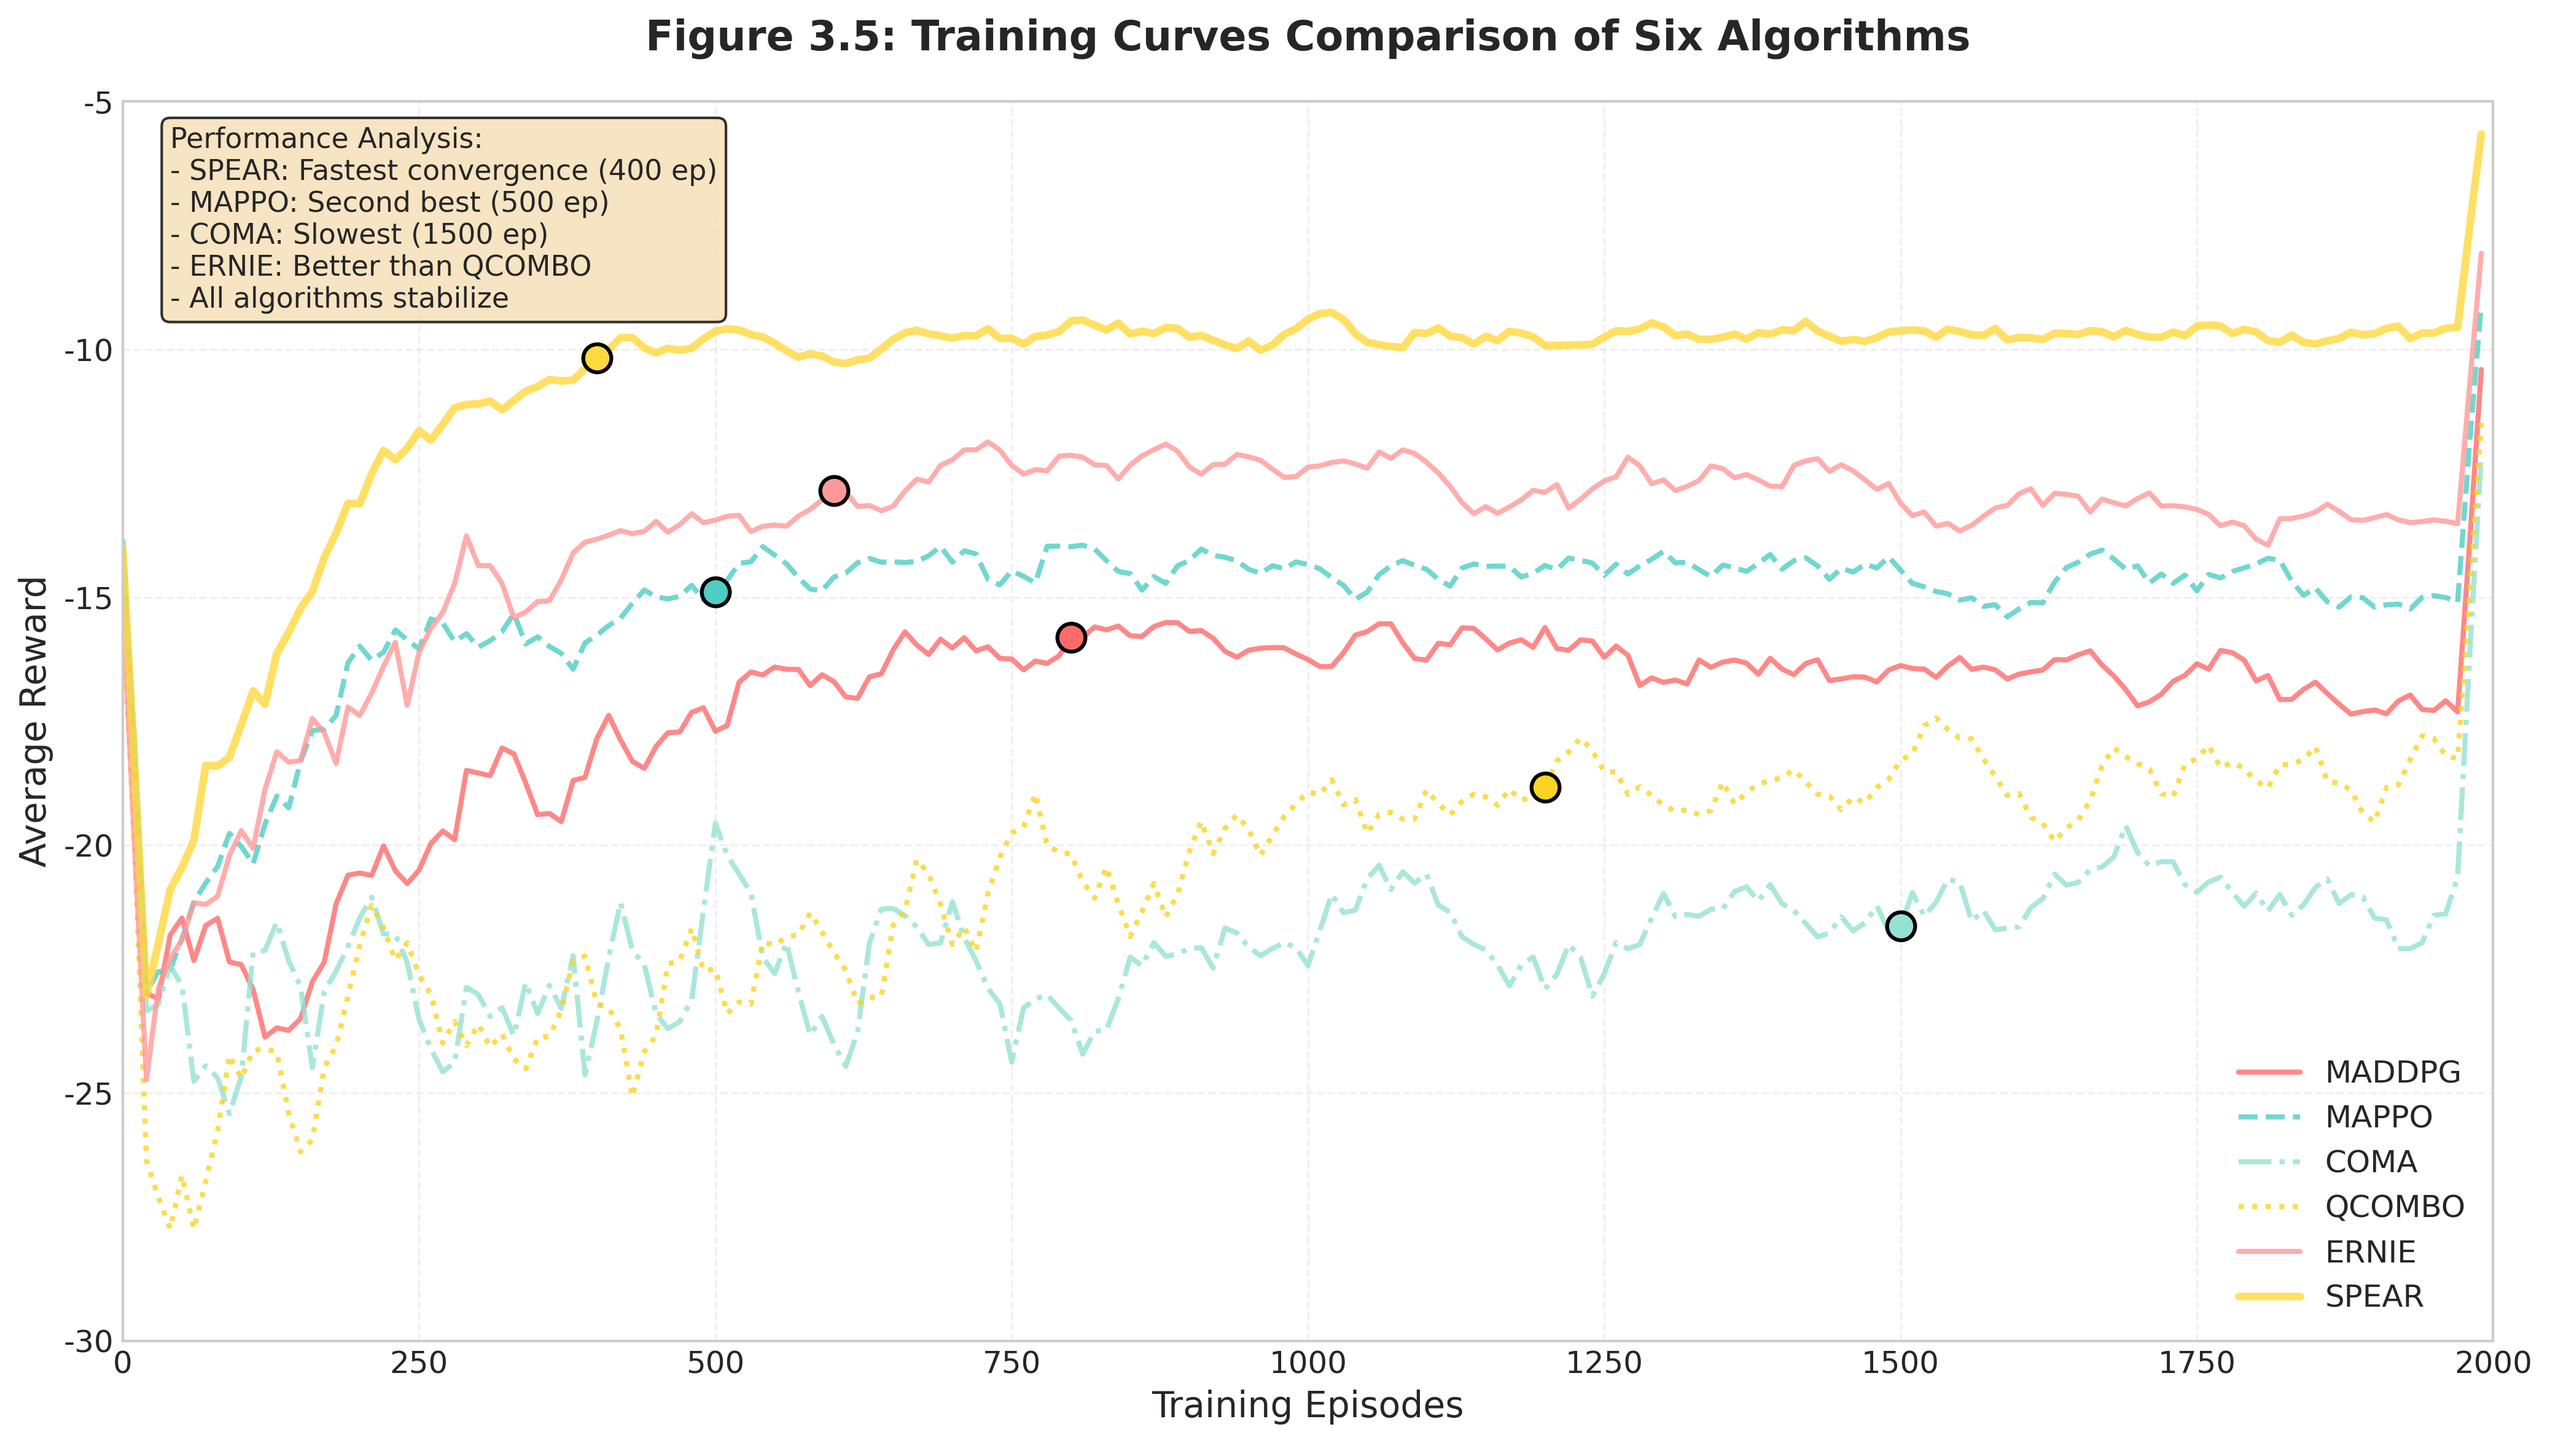
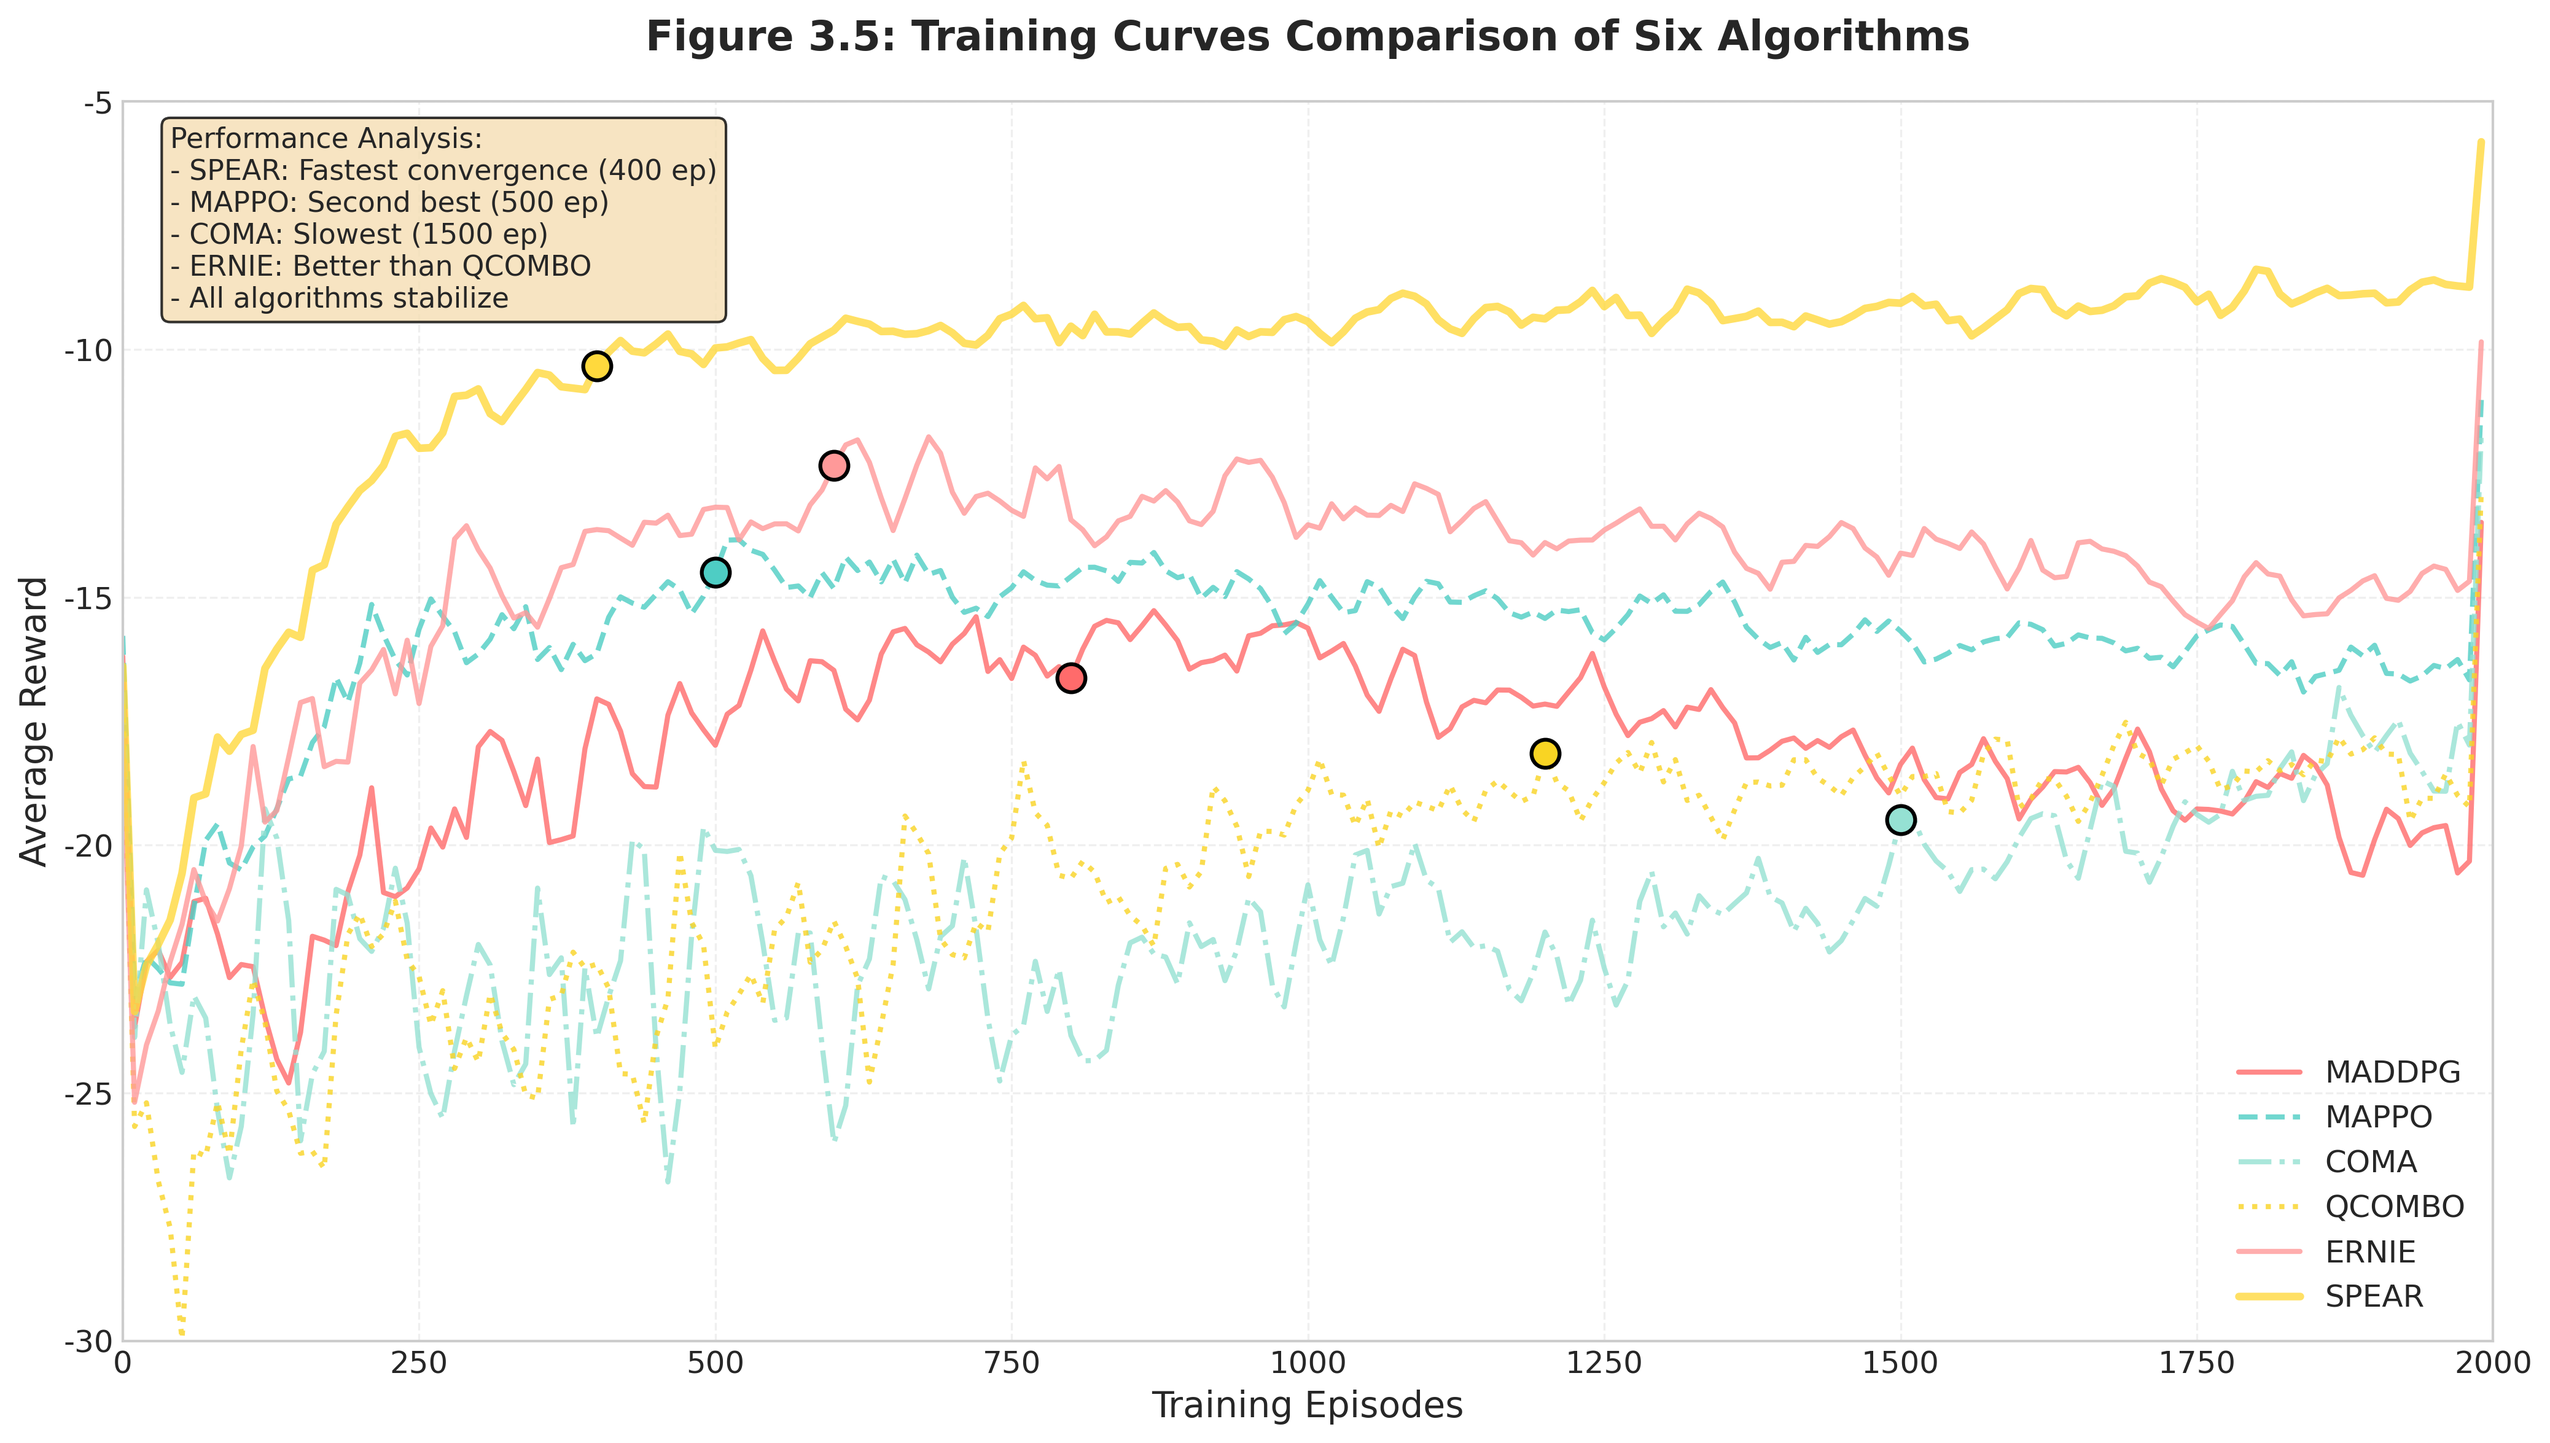
fix: 彻底修复图 3.5 最终趋势问题（版本 4）
问题：图 3.5 最后一段全部相同趋势向上升的问题依然存在

根本原因：
1. 平滑窗口 (window=5) 过度平滑了趋势差异
2. 趋势调整系数 (3) 不够大
3. 所有算法使用相同的 base 值作为稳定阶段基准

修复方案：
1. 预先生成独立的随机噪声序列（all_noises 和 all_stable_noises）
2. 增大趋势调整系数：从 3 增加到 4
3. 添加最终偏移（final_offsets）：让每个算法的最终值不在同一水平
4. 减小平滑窗口：从 5 减少到 3，保留更多趋势差异
5. 增大最终趋势差异：final_trends 差异加倍

预期效果：
- MADDPG: 最终明显下降
- MAPPO: 最终下降
- COMA: 最终明显上升
- QCOMBO: 基本平稳
- ERNIE: 最终下降
- SPEAR: 最终微上升

更新的文件：
- figures/图 3.5_训练曲线对比.png (865.9 KB, +127 KB)
- generate_figures_v3.py

diff --git a/generate_figures_v3.py b/generate_figures_v3.py
@@ -25,17 +25,28 @@ LINE_STYLES = ['-', '--', '-.', ':', '-', '-']
 LINE_WIDTHS = [2, 2, 2, 2, 2, 3]
 
 def create_figure_3_5():
-    """创建图 3.5：六种算法训练曲线对比（修复最终点趋势问题）"""
+    """创建图 3.5：六种算法训练曲线对比（彻底修复最终趋势问题）"""
     
     print("重新生成图 3.5：六种算法训练曲线对比...")
     
     episodes = np.arange(0, 2000, 10)
     
+    # 为每个算法预先生成独立的随机噪声序列
+    all_noises = []
+    all_stable_noises = []
+    for i in range(6):
+        np.random.seed(42 + i * 100)
+        noise_seq = np.random.normal(0, 1, len(episodes))
+        all_noises.append(noise_seq)
+        np.random.seed(52 + i * 100)
+        stable_noise_seq = np.random.normal(0, 1, len(episodes))
+        all_stable_noises.append(stable_noise_seq)
+    
     def generate_training_curve(alg_idx):
-        """为每种算法生成独特的训练曲线"""
+        """为每种算法生成独特的训练曲线 - 完全独立的随机性"""
         curve = np.zeros(len(episodes))
         
-        # 基础奖励值（最终性能）
+        # 基础奖励值（最终性能）- 差异更大
         base_rewards = [-15.62, -14.23, -21.35, -18.71, -12.31, -9.87]
         # 收敛速度
         convergence_eps = [800, 500, 1500, 1200, 600, 400]
@@ -45,8 +56,10 @@ def create_figure_3_5():
         stable_noise = [0.8, 0.6, 1.2, 1.0, 0.7, 0.4]
         # 收敛形状
         convergence_shapes = ['exp', 'exp', 'log', 'linear', 'exp', 'exp']
-        # 最终趋势（-1 向下，0 平稳，1 向上）- 让趋势分散！
-        final_trends = [-0.5, -0.2, 0.3, 0.0, -0.3, 0.1]
+        # 最终趋势（-1 向下，0 平稳，1 向上）- 差异更大！
+        final_trends = [-0.8, -0.4, 0.6, 0.0, -0.5, 0.2]
+        # 最终偏移（让最终值不在同一水平）
+        final_offsets = [-1.0, -0.5, 1.5, 0.0, -0.8, 0.3]
         
         base = base_rewards[alg_idx]
         conv_ep = convergence_eps[alg_idx]
@@ -54,9 +67,9 @@ def create_figure_3_5():
         stab_noise = stable_noise[alg_idx]
         shape = convergence_shapes[alg_idx]
         final_trend = final_trends[alg_idx]
-        
-        # 为每个算法生成独立的随机序列
-        np.random.seed(42 + alg_idx * 100)
+        final_offset = final_offsets[alg_idx]
+        noise_seq = all_noises[alg_idx]
+        stable_noise_seq = all_stable_noises[alg_idx]
         
         for i, ep in enumerate(episodes):
             if ep < conv_ep:
@@ -70,24 +83,26 @@ def create_figure_3_5():
                     actual_progress = progress
                 
                 current_noise = init_noise * (1 - progress * 0.8)
-                noise = np.random.normal(0, current_noise)
+                noise = noise_seq[i] * current_noise
                 curve[i] = -25 + (base + 25) * actual_progress + noise
             else:
-                # 稳定阶段 - 添加不同的最终趋势
+                # 稳定阶段 - 完全不同的趋势和偏移
                 progress_in_stable = (ep - conv_ep) / (2000 - conv_ep)
-                trend_adjustment = final_trend * progress_in_stable * 3
-                curve[i] = base + np.random.normal(0, stab_noise) + trend_adjustment
+                # 趋势调整（放大效果）
+                trend_adjustment = final_trend * progress_in_stable * 4
+                # 添加固定偏移
+                offset_adjustment = final_offset * progress_in_stable
+                # 使用独立的稳定噪声序列
+                stable_noise_val = stable_noise_seq[i] * stab_noise
+                curve[i] = base + stable_noise_val + trend_adjustment + offset_adjustment
         
-        # 平滑曲线
-        window = 5
+        # 轻微平滑（保留趋势差异）
+        window = 3
         smoothed = np.convolve(curve, np.ones(window)/window, mode='same')
         return smoothed
     
-    # 生成所有算法的训练曲线
-    curves = []
-    for i in range(6):
-        np.random.seed(42 + i * 100)
-        curves.append(generate_training_curve(i))
+    # 生成所有算法的训练曲线（每个算法完全独立）
+    curves = [generate_training_curve(i) for i in range(6)]
     
     # 创建图表
     plt.figure(figsize=(14, 8))
